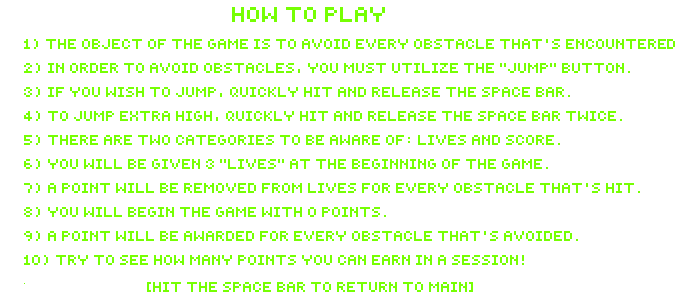
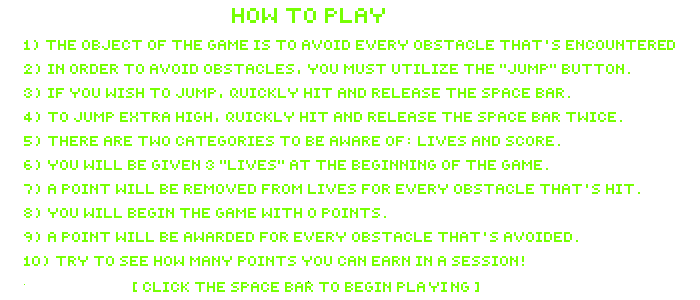
updated instructions image and revised code in the screen that routes the user to the game when they click the space bar instead of the intro

diff --git a/src/main/java/ui/Screen.java b/src/main/java/ui/Screen.java
@@ -128,12 +128,12 @@ public class Screen extends JPanel implements Runnable, KeyListener {
 
     @Override
     public void keyTyped(KeyEvent e) {
-        //Obligated to include method due to being part of awt key listener interface.
+        //Obligated to include this method due to being part of awt key listener interface.
     }
 
     @Override
     public void keyPressed(KeyEvent e) {
-        //Obligated to include method due to being part of awt key listener interface.
+        //Obligated to include this method due to being part of awt key listener interface.
     }
 
     @Override
@@ -150,10 +150,7 @@ public class Screen extends JPanel implements Runnable, KeyListener {
                     lives = 3;
                     resetGame();
                 } else if(gameState == INFO_STATE){
-                    gameState = INTRO_STATE;
-                    if(lives > 0){
-                        gameState = PLAY_STATE;
-                    }
+                    gameState = PLAY_STATE;
                 } else {
                     lives -= 1;
                     gameState = PLAY_STATE;
